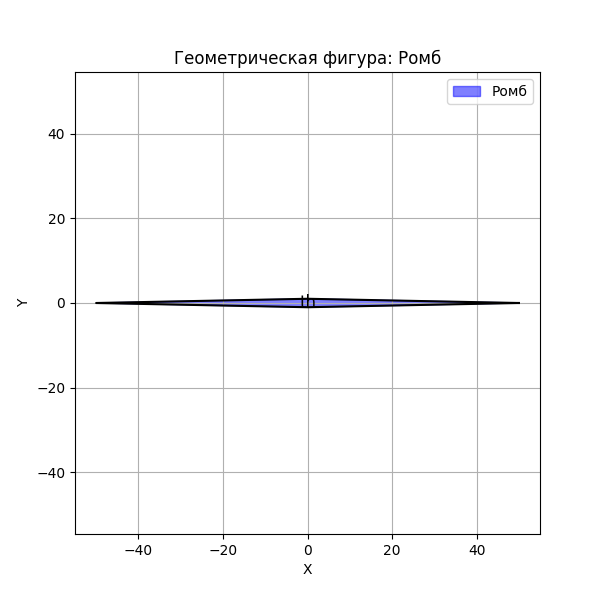
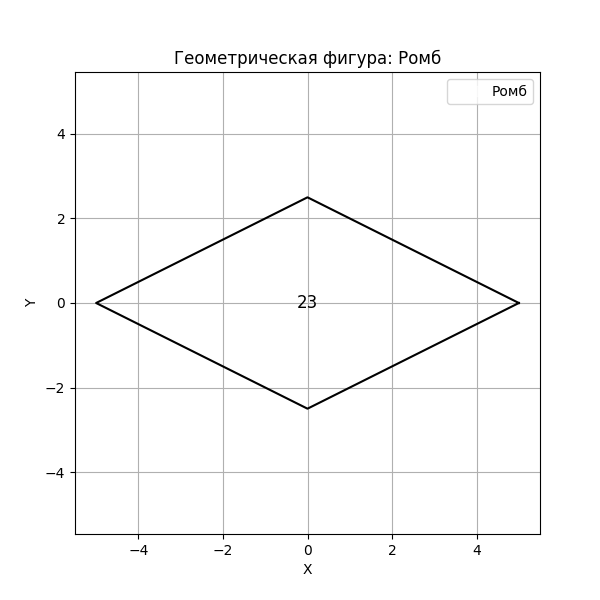
updated super() method in task4

diff --git a/IGI/LR4/geometry.py b/IGI/LR4/geometry.py
@@ -6,23 +6,6 @@ This module defines the abstract GeometricFigure class, the FigureColor class, a
 from abc import ABC, abstractmethod
 
 
-class GeometricFigure(ABC):
-    """
-    Abstract base class for geometric figures.
-    Requires implementation of the area method.
-    """
-
-    @abstractmethod
-    def area(self) -> float:
-        """
-        Computes and returns the area of the figure.
-
-        Returns:
-            float: Figure area.
-        """
-        pass
-
-
 class FigureColor:
     """
     FigureColor class encapsulates the color property for a geometric figure.
@@ -50,6 +33,46 @@ class FigureColor:
             value (str): New color.
         """
         self._color = value
+
+
+class GeometricFigure(ABC):
+    """
+    Abstract base class for geometric figures.
+    Requires implementation of the area method.
+    """
+
+    def __init__(self, color: str):
+        self._figure_color = FigureColor(color)
+
+    @abstractmethod
+    def area(self) -> float:
+        """
+        Computes and returns the area of the figure.
+
+        Returns:
+            float: Figure area.
+        """
+        pass
+
+    @property
+    def figure_color(self) -> str:
+        """
+        Returns the color of the rhombus.
+
+        Returns:
+            str: Color.
+        """
+        return self._figure_color.color
+
+    @figure_color.setter
+    def figure_color(self, value: str) -> None:
+        """
+        Sets the color of the rhombus.
+
+        Args:
+            value (str): New color.
+        """
+        self._figure_color.color = value
 
 
 class Rhombus(GeometricFigure):
@@ -82,29 +105,9 @@ class Rhombus(GeometricFigure):
             b (float): Length of the vertical diagonal.
             color (str): Figure color.
         """
+        super().__init__(color)
         self.a = a
         self.b = b
-        self._figure_color = FigureColor(color)
-
-    @property
-    def color(self) -> str:
-        """
-        Returns the color of the rhombus.
-
-        Returns:
-            str: Color.
-        """
-        return self._figure_color.color
-
-    @color.setter
-    def color(self, value: str) -> None:
-        """
-        Sets the color of the rhombus.
-
-        Args:
-            value (str): New color.
-        """
-        self._figure_color.color = value
 
     def area(self) -> float:
         """
@@ -123,4 +126,4 @@ class Rhombus(GeometricFigure):
             str: Details including figure type, diagonals, color, and area.
         """
         return ("Фигура: {name}\nДиагонали: a = {a:.2f}, b = {b:.2f}\nЦвет: {color}\nПлощадь: {area:.2f}"
-                .format(name=self.figure_name, a=self.a, b=self.b, color=self.color, area=self.area()))
+                .format(name=self.figure_name, a=self.a, b=self.b, color=super().figure_color, area=self.area()))

diff --git a/IGI/LR4/task4.py b/IGI/LR4/task4.py
@@ -37,7 +37,7 @@ def draw_rhombus(rhombus: Rhombus, label_text: str, save_filename: str) -> None:
     y_coords = [v[1] for v in vertices]
 
     plt.figure(figsize=(6, 6))
-    plt.fill(x_coords, y_coords, color=rhombus.color, alpha=0.5, label='Ромб')
+    plt.fill(x_coords, y_coords, color=rhombus.figure_color, alpha=0.5, label='Ромб')
     plt.plot(x_coords, y_coords, color='black')
     plt.title("Геометрическая фигура: Ромб")
     plt.xlabel("X")
